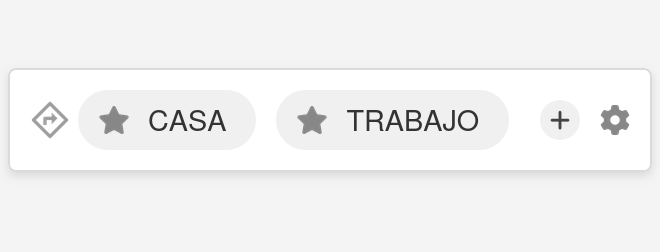
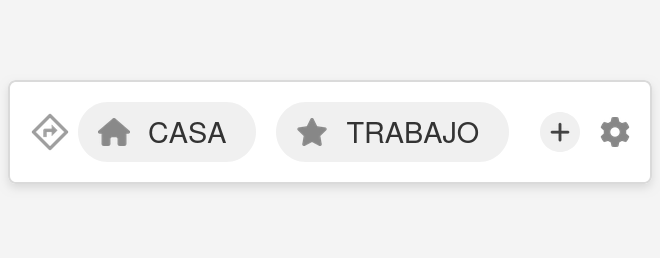
mejora overlay destinos

diff --git a/index.html b/index.html
@@ -24,7 +24,7 @@
     <meta name="twitter:image" content="https://vallabus.com/favicon.png">
     <script type="module" src="js/browser.js"></script>
     <link rel="icon" type="image/x-icon" href="favicon.png">
-    <link rel="stylesheet" type="text/css" href="css/style.css?v=202410121230">
+    <link rel="stylesheet" type="text/css" href="css/style.css?v=202410121310">
     <link rel="manifest" href="manifest.json">
 
     <link rel="stylesheet" href="css/leaflet.css" />

diff --git a/css/style.css b/css/style.css
@@ -608,7 +608,7 @@ button#installIosButton {
     color: #eeeeee;
 }
 
-#fav-destinations #home-destination::before {
+#fav-destinations #home-destination {
     background-image: url("/img/home.png");
 }
 
